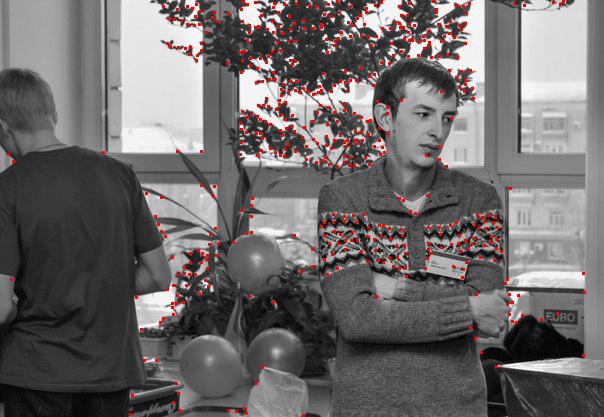
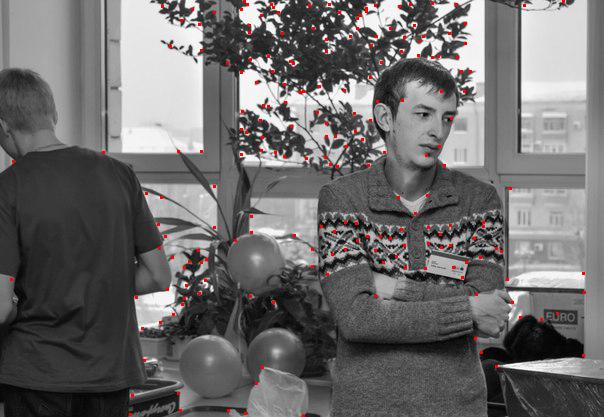
Moravec added

diff --git a/CVision/main.cpp b/CVision/main.cpp
@@ -21,6 +21,8 @@ void scalePyramid(const QString &source, const QString &resultFolder) {
 void interestingPoints(const QString &source, const QString &resultFolder)
 {
 	const auto image = Image::fromQImage(QImage(source));
+	const auto moravecPoints = image.moravec(MORAVEC_SHIFT).getLocalMaximums(LOCAL_MAXIMUMS_SHIFT, LOCAL_MAXIMUMS_TRESHOLD);
+	image.toQImageWithPoints(image.nonMaxSuppression(moravecPoints, POINTS_LIMIT, NONMAX_FILTER_VALUE)).save(resultFolder + "/moravec.jpg");
 	const auto harrisPoints = image.harris(HARRIS_SIGMA).getLocalMaximums(LOCAL_MAXIMUMS_SHIFT, LOCAL_MAXIMUMS_TRESHOLD);
 	image.toQImageWithPoints(image.nonMaxSuppression(harrisPoints, POINTS_LIMIT, NONMAX_FILTER_VALUE)).save(resultFolder + "/harris.jpg");
 }
@@ -50,17 +52,17 @@ void descriptors(const QString &source,
 	finalResult.save(resultPath);
 }
 
-int main(int argc, char *argv[])
+int main()
 {
-	////#1
-	//sobel(SOURCE, RESULT_SOBEL);
-	////#2
-	//scalePyramid(SOURCE, RESULT_PYRAMID_FOLDER);
+	//#1
+	sobel(SOURCE, RESULT_SOBEL);
+	//#2
+	scalePyramid(SOURCE, RESULT_PYRAMID_FOLDER);
 	//#3
 	interestingPoints(SOURCE, RESULT_INTERESTING_FOLDER);
-	////#4
-	//descriptors(SOURCE, SOURCE_MODIFIED_BASIC, RESULT_DESCRIPTORS_BASIC, DescriptorTaskBasic());
-	////#5
-	//descriptors(SOURCE, SOURCE_MODIFIED_ROTATION, RESULT_DESCRIPTORS_ROTATE_INVARIANT, DescriptorTaskRotateInvariant(), MINDISTANCE_TRESHOLD);
+	//#4
+	descriptors(SOURCE, SOURCE_MODIFIED_BASIC, RESULT_DESCRIPTORS_BASIC, DescriptorTaskBasic());
+	//#5
+	descriptors(SOURCE, SOURCE_MODIFIED_ROTATION, RESULT_DESCRIPTORS_ROTATE_INVARIANT, DescriptorTaskRotateInvariant(), MINDISTANCE_TRESHOLD);
 	return 0;
 }

diff --git a/CVision/ConstantValues.h b/CVision/ConstantValues.h
@@ -20,7 +20,7 @@ const auto BASE_SIGMA = .5;
 const auto SIGMA = 1.6;
 
 //#3
-const auto POINTS_LIMIT = 500;
+const auto POINTS_LIMIT = 200;
 const auto MORAVEC_SHIFT = 2;
 const auto HARRIS_SIGMA = 1;
 const auto LOCAL_MAXIMUMS_SHIFT = 2;
